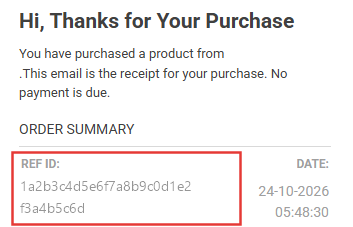
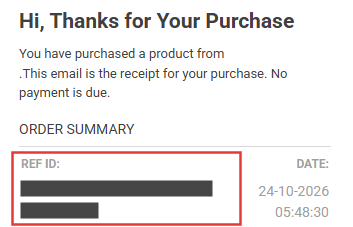
docs: censor the order ID in the receipt picture

Changed region(s): [[0.0312, 0.7709, 0.6232, 0.9868]]

diff --git a/ACTIVATE-PRO.md b/ACTIVATE-PRO.md
@@ -17,7 +17,7 @@ Setelah membayar, Lynk.id mengirim email struk berjudul **"Hi, Thanks for Your P
 
 - Order ID terdiri dari **32 karakter** (huruf a–f dan angka). Di email kodenya terpotong jadi dua baris, tapi itu satu
   kode: salin semuanya **tanpa spasi**.
-- Gambar di atas memakai kode contoh. Pakai kode dari struk kamu sendiri.
+- Order ID di gambar sengaja disensor. Pakai kode dari struk kamu sendiri.
 - **Jangan bagikan Order ID kamu.** Bersama email kamu, kode ini bisa dipakai untuk mengaktifkan lisensimu.
 
 ## 3. Aktifkan di Chartwizard
